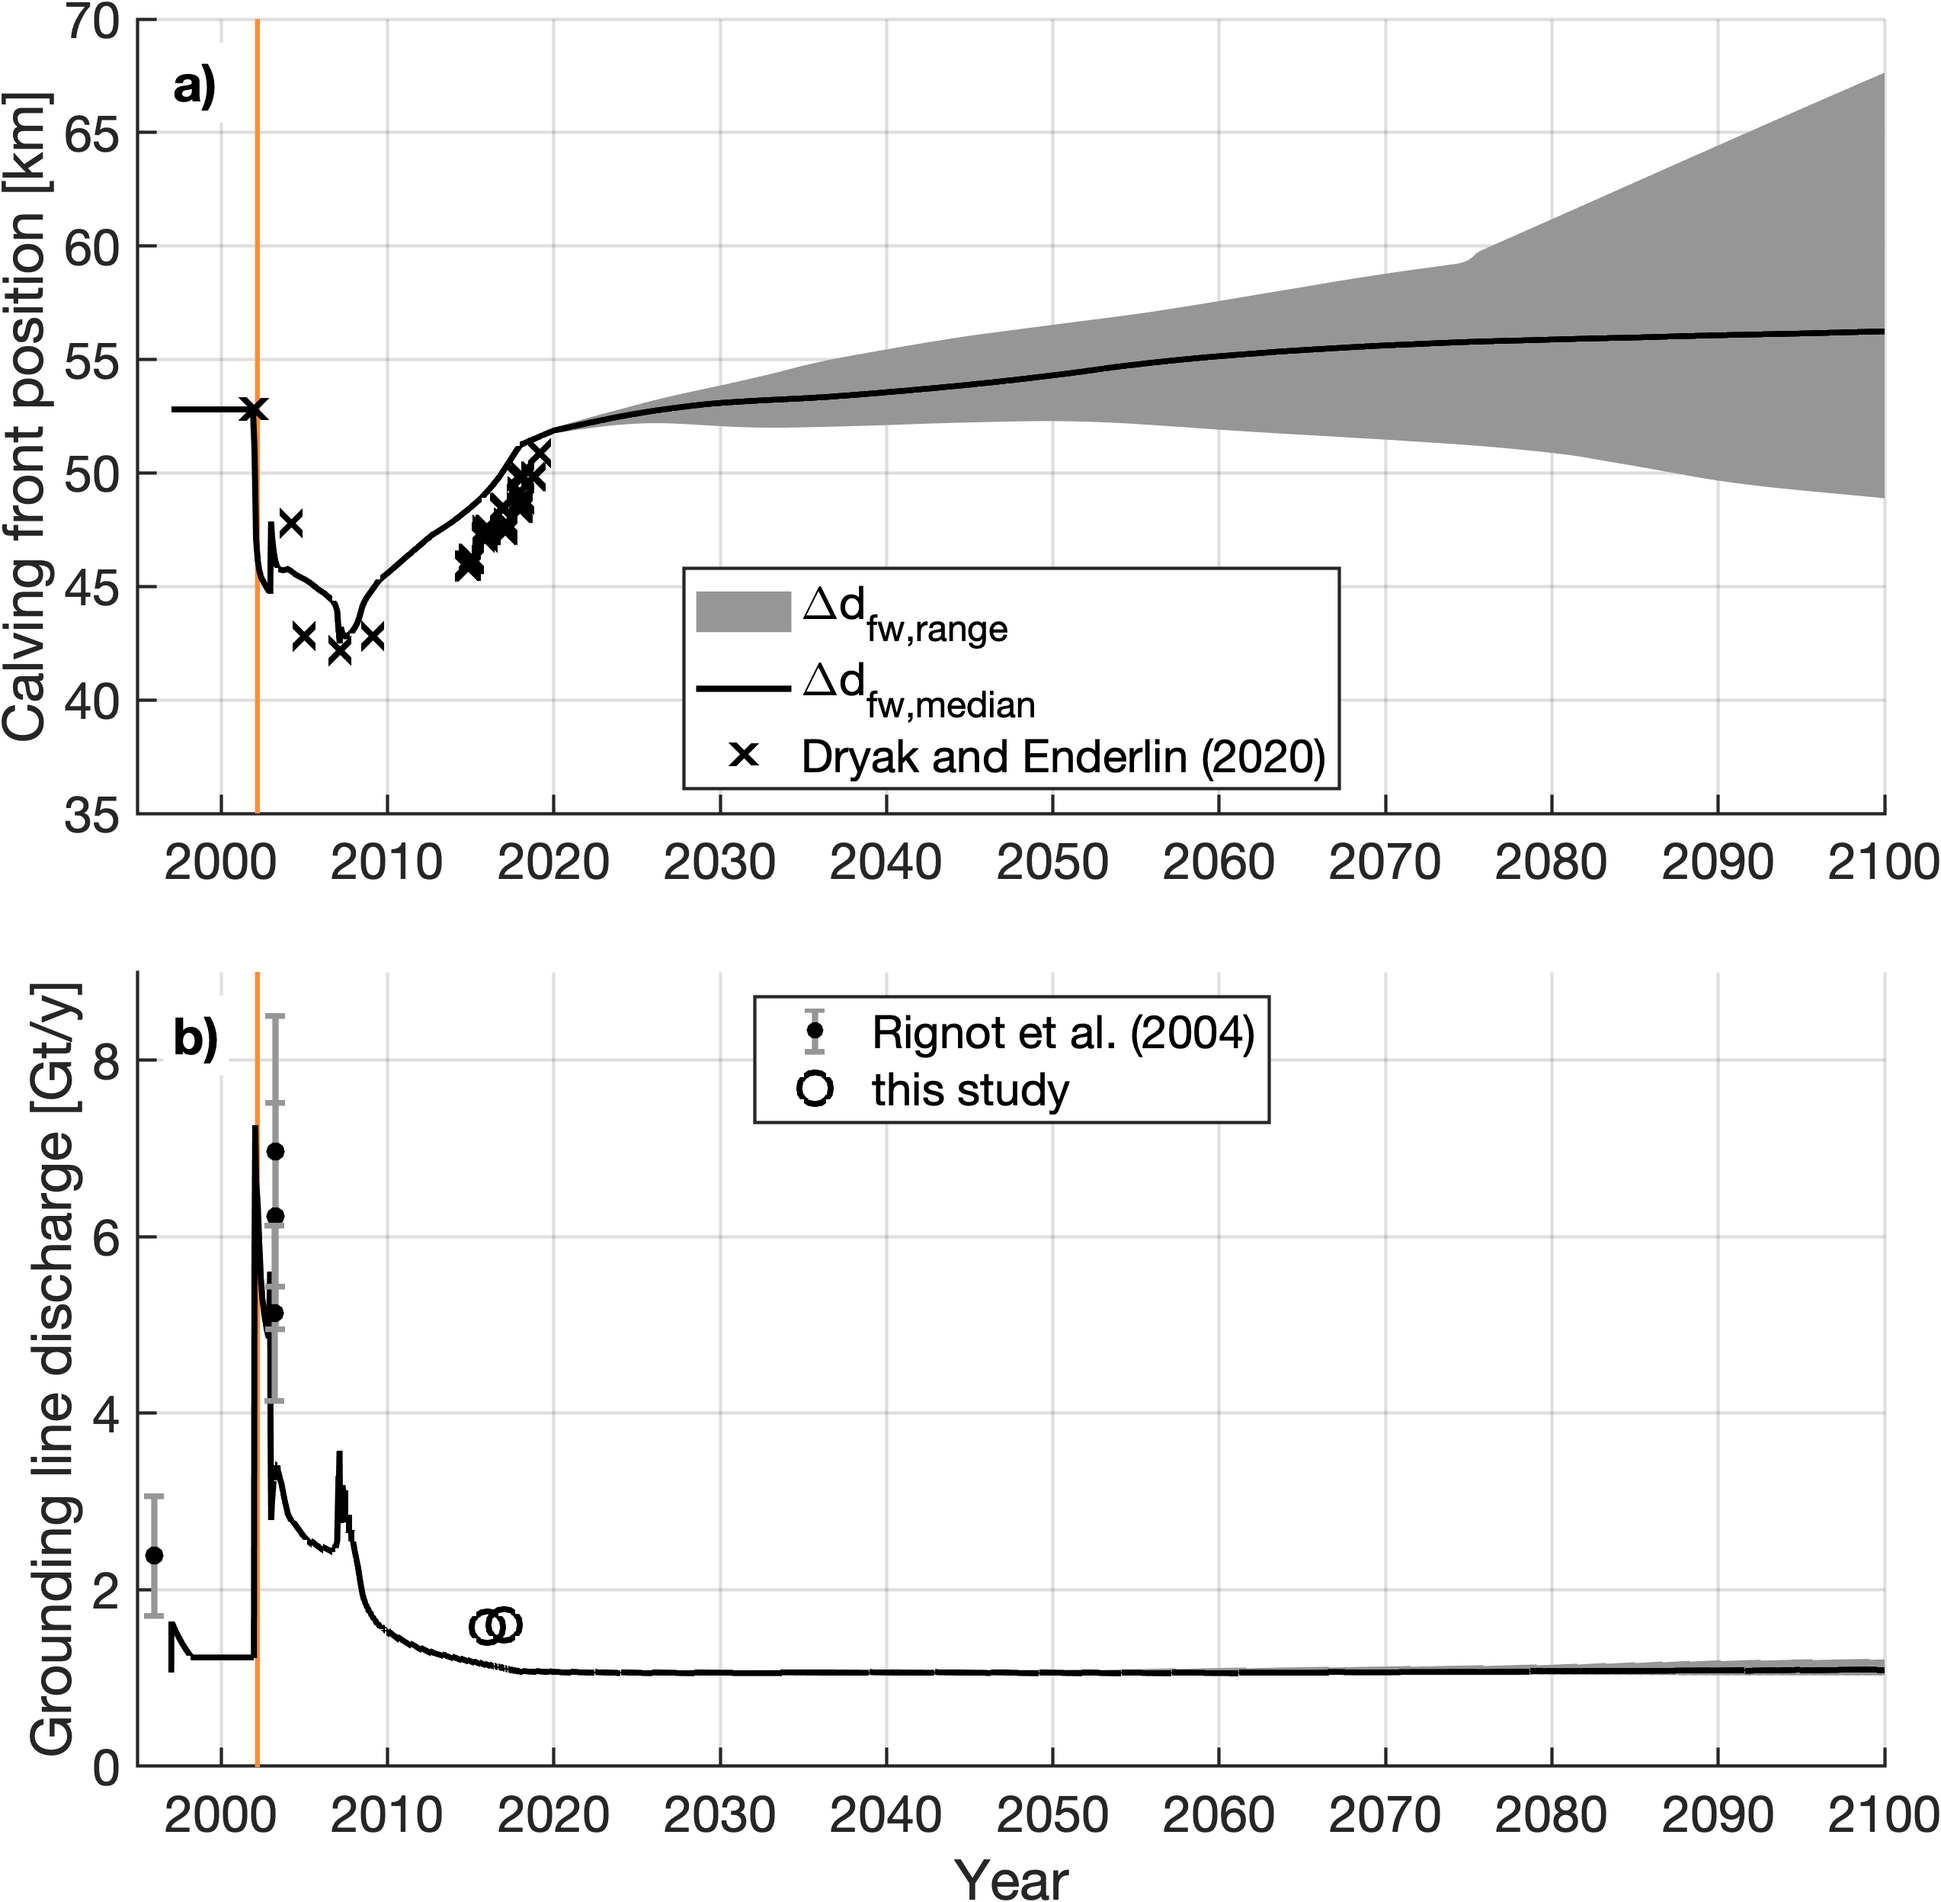
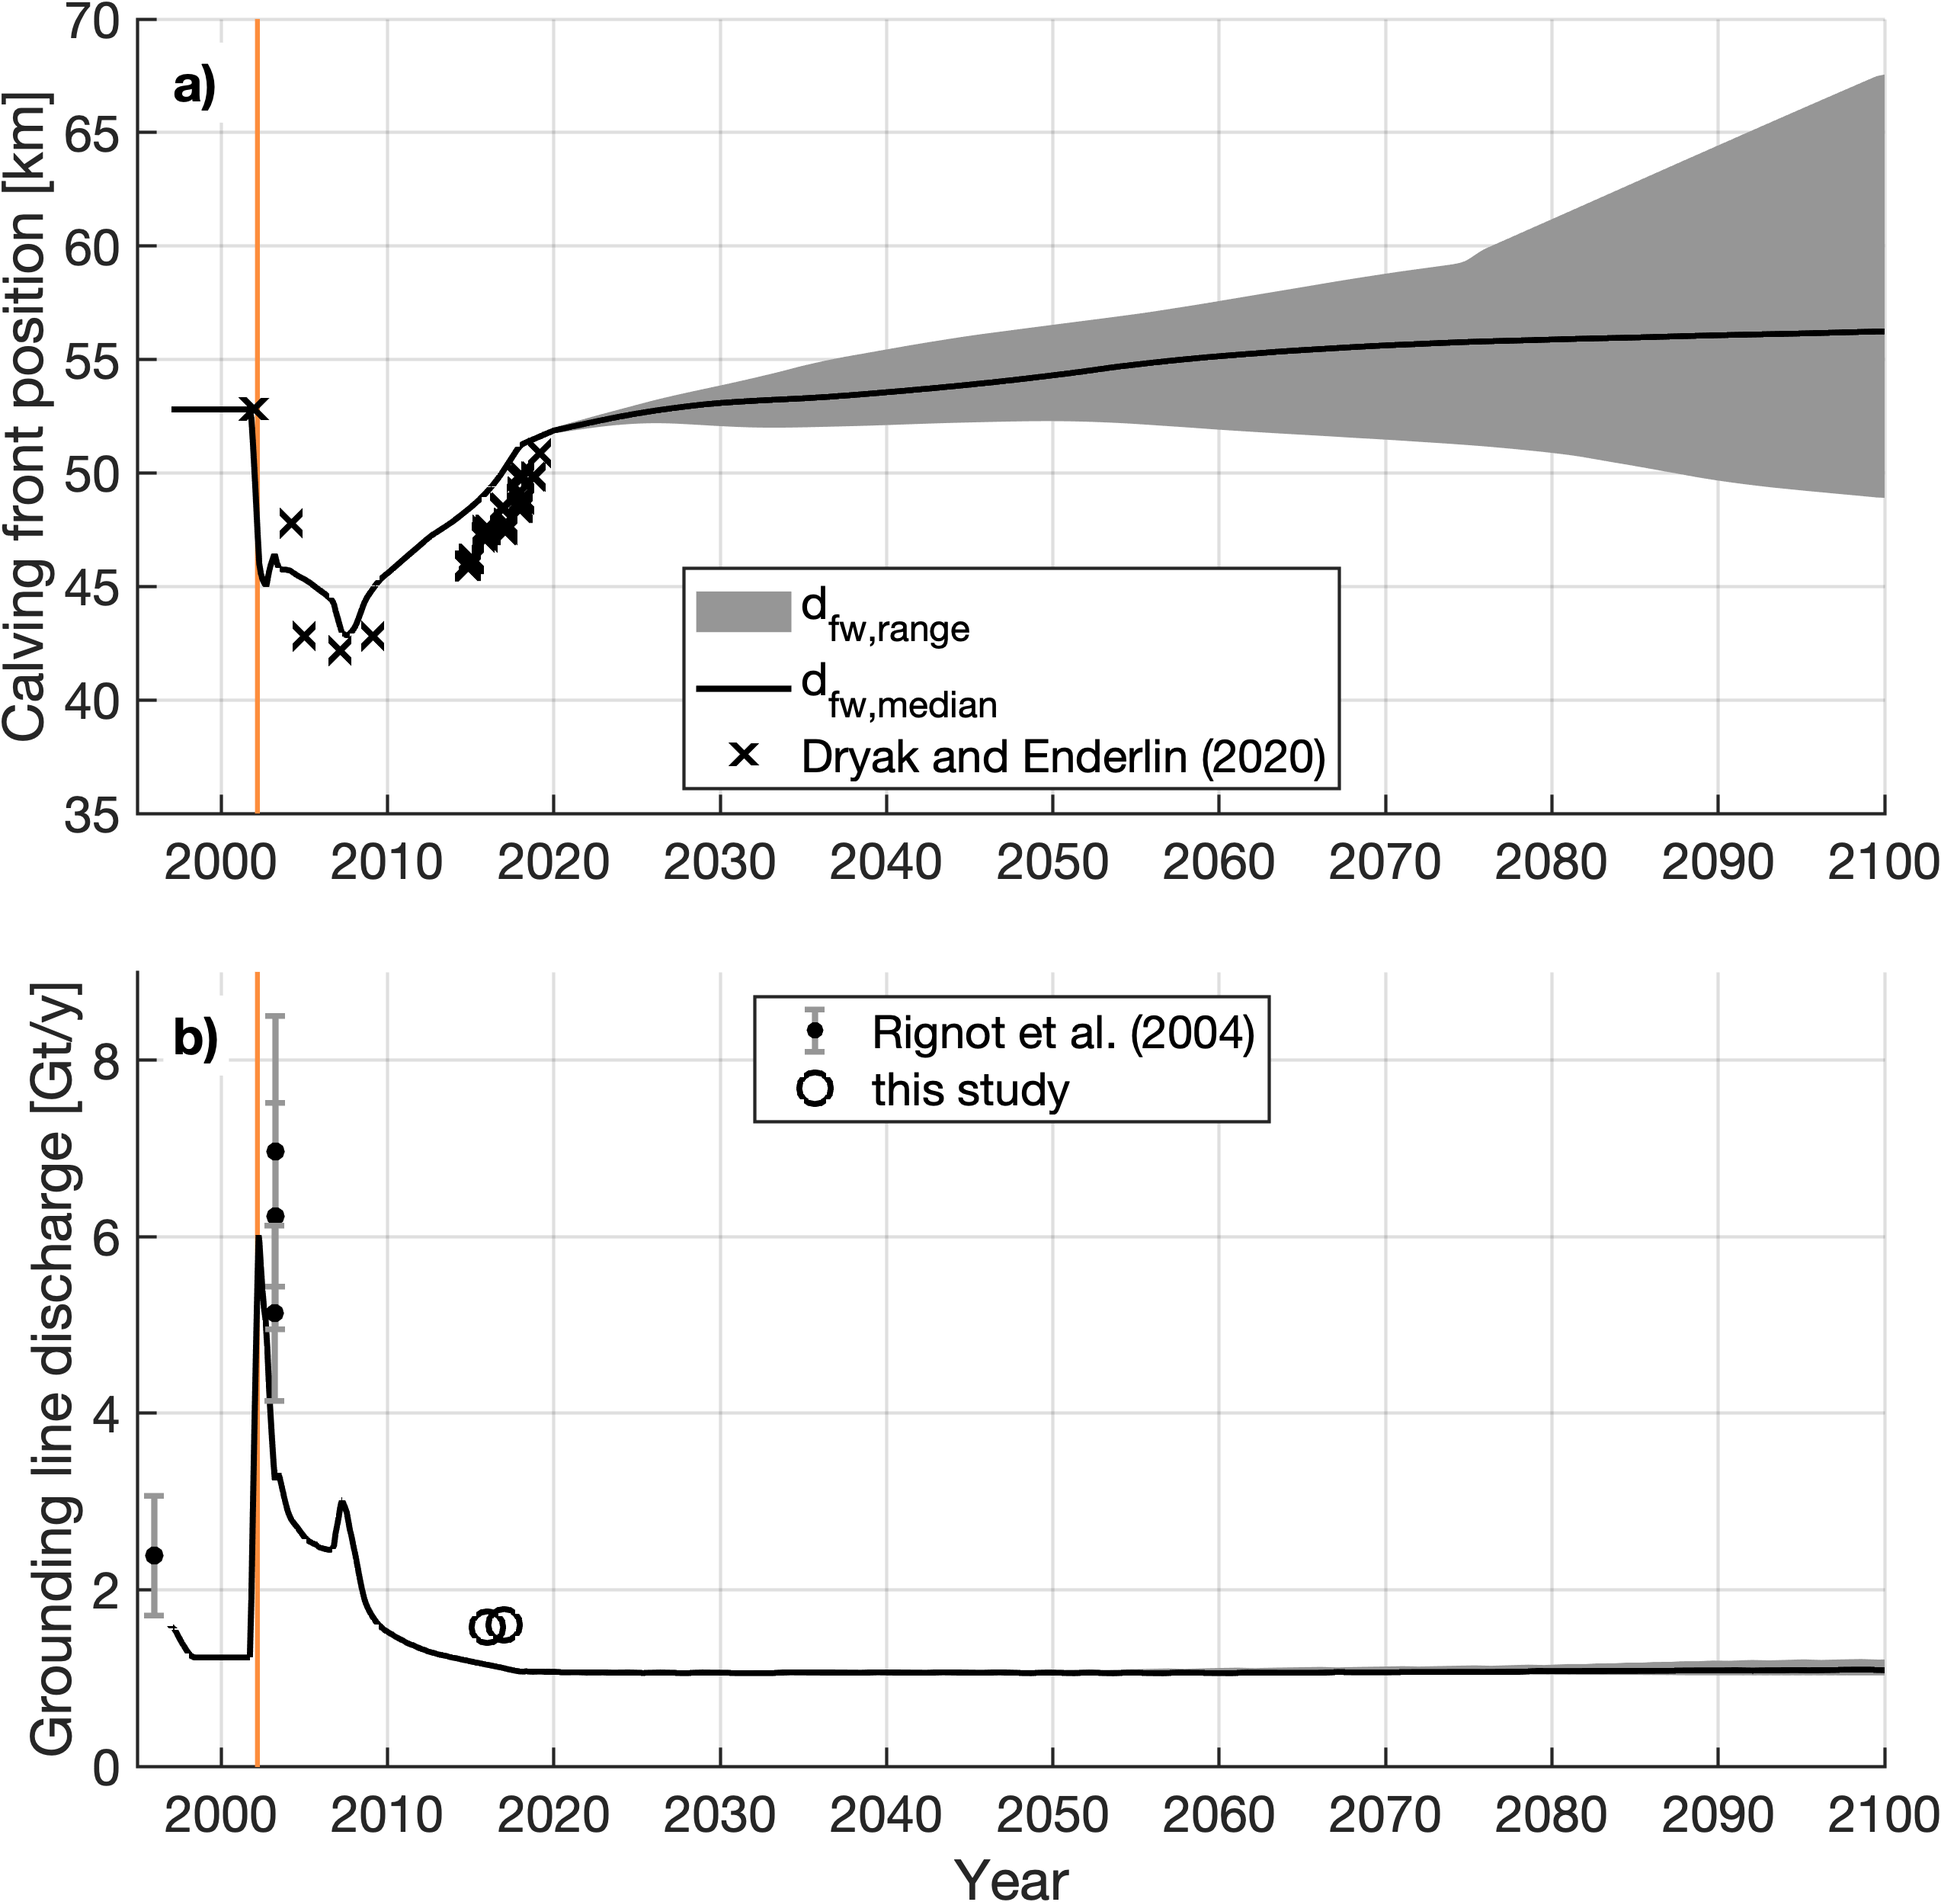
sensitivity tests figures: smoothed over one-year bins

diff --git a/figures/manuscript_figures.m b/figures/manuscript_figures.m
@@ -1525,19 +1525,19 @@ for i=1:length(IDFW)
     dgl(i) = x2(gl2)-x1(gl1); % m
     Ugl(i) = U2(gl2)*3.1536e7; % m/a
 end
-% plot Fgl and Xcf over time
+% plot Fgl and Xcf over time averaged over 1 yr bins
 figure(10);
 fill(ax10A, [t/3.1536e7+2002 fliplr(t)/3.1536e7+2002],...
-    [XCF2_DFWmin/10^3 fliplr(XCF2_DFWmax)/10^3],...
-    [150,150,150]./255,'LineStyle','none','displayname','\Deltad_{fw,range}');
+    [movmean(XCF2_DFWmin/10^3,1000) fliplr(movmean(XCF2_DFWmax,1000))/10^3],...
+    [150,150,150]./255,'LineStyle','none','displayname','d_{fw,range}');
 plot(ax10A,[(0:dt1:5*3.1536e7-dt1)/3.1536e7+1997 t/3.1536e7+2002],...
-    [x0(c0)*ones(1,length(Fgl_preCollapse))/10^3 XCF2_DFWmid/10^3],...
-    '-k','linewidth',linewidth,'displayname','\Deltad_{fw,median}');        
+    movmean([x0(c0)*ones(1,length(Fgl_preCollapse))/10^3 XCF2_DFWmid/10^3],1000),...
+    '-k','linewidth',linewidth,'displayname','d_{fw,median}');        
 fill(ax10B, [t/3.1536e7+2002 fliplr(t)/3.1536e7+2002],...
-    [Fgl2_DFWmin fliplr(Fgl2_DFWmax)],...
+    [movmean(Fgl2_DFWmin,1000) fliplr(movmean(Fgl2_DFWmax,1000))],...
     [150,150,150]./255,'LineStyle','none','HandleVisibility','off');
 plot(ax10B,[(0:dt1:5*3.1536e7-dt1)/3.1536e7+1997 t/3.1536e7+2002],...
-    [Fgl_preCollapse Fgl2_DFWmid],'-k','linewidth',linewidth,'handlevisibility','off'); 
+    movmean([Fgl_preCollapse Fgl2_DFWmid],1000),'-k','linewidth',linewidth,'handlevisibility','off'); 
 % create table to store result quantities
 varNames = {'dfwd','dL','dxgl','dHgl','dUgl','Qfwd'};
 T_DFW = table(dDFW,dL/10^3,dgl/10^3,dHgl,dUgl,Fdfw,'VariableNames',varNames);
@@ -1808,23 +1808,37 @@ BP.years = [BP.years; 2020*ones(length(XCF(:,(t/3.1536e7+2002)==2020)),1); 2040*
 varNames = {'dSMB_enh','dTF','dL','dgl','dHgl','dUgl','Qgl'};
 T_smb_enh_TF = table(dsmb_enh,dTF,dL/10^3,dgl/10^3,dHgl,dUgl,F,'VariableNames',varNames);
 
-% -----plot Fgl and Xcf     
+% -----plot Fgl and Xcf over time averaged over 1 yr bins     
 % mid
 % SMB
 figure(12);
-plot(ax12A,t/3.1536e7+2002,XCF2_SMBmid/10^3,'color',col2(1,:),'linewidth',linewidth,'displayname','\DeltaSMB');  
-plot(ax12C,t/3.1536e7+2002,Fgl2_SMBmid,'color',col2(1,:),'linewidth',linewidth,'HandleVisibility','off');        
+plot(ax12A,t/3.1536e7+2002,movmean(XCF2_SMBmid/10^3,1000),'color',col2(1,:),'linewidth',linewidth,'displayname','\DeltaSMB');  
+plot(ax12C,t/3.1536e7+2002,movmean(Fgl2_SMBmid,1000),'color',col2(1,:),'linewidth',linewidth,'HandleVisibility','off');        
 % TF
-plot(ax12A,t/3.1536e7+2002,XCF2_TFmid/10^3,'color',col2(2,:),'linewidth',linewidth,'displayName','\DeltaF_{T}');        
-plot(ax12C,t/3.1536e7+2002,Fgl2_TFmid,'color',col2(2,:),'linewidth',linewidth,'HandleVisibility','off');        
+plot(ax12A,t/3.1536e7+2002,movmean(XCF2_TFmid/10^3,1000),'color',col2(2,:),'linewidth',linewidth,'displayName','\DeltaF_{T}');        
+plot(ax12C,t/3.1536e7+2002,movmean(Fgl2_TFmid,1000),'color',col2(2,:),'linewidth',linewidth,'HandleVisibility','off');        
+
+% observations
+% terminus - Dryak and Enderlin
+plot(ax10A,termdate,termx/10^3,'xk','markersize',markersize-1,'linewidth',linewidth,'displayName','Dryak and Enderlin (2020)');        
+plot(ax12A,termdate,termx/10^3,'xk','markersize',markersize-1,'linewidth',linewidth,'displayName','Dryak and Enderlin (2020)');        
+% discharge - Rignot (2004)
+errorbar(ax10B,F_obs(1:4,1),F_obs(1:4,2),F_obs_err(1:4),'.','color',[150,150,150]./255,...
+    'markersize',markersize*2,'markerfacecolor','k','markeredgecolor','k','linewidth',linewidth,'displayName','Rignot et al. (2004)');        
+errorbar(ax12C,F_obs(1:4,1),F_obs(1:4,2),F_obs_err(1:4),'.','color',[150,150,150]./255,...
+    'markersize',markersize*2,'markerfacecolor','k','markeredgecolor','k','linewidth',linewidth,'displayName','Rignot et al. (2004)');   
+% discharge - Us! 
+plot(ax10B,F_obs(5:6,1),F_obs(5:6,2),'ok','markersize',markersize,'linewidth',linewidth,'displayName','this study');        
+plot(ax12C,F_obs(5:6,1),F_obs(5:6,2),'ok','markersize',markersize,'linewidth',linewidth,'displayName','this study');   
+
 % SMB_enh
-plot(ax12A,t/3.1536e7+2002,XCF2_SMBenh_mid/10^3,'color',col2(3,:),'linewidth',linewidth,'displayname','\DeltaSMB_{enh}');        
-plot(ax12C,t/3.1536e7+2002,Fgl2_SMBenh_mid,'color',col2(3,:),'linewidth',linewidth,'HandleVisibility','off');        
+plot(ax12A,t/3.1536e7+2002,movmean(XCF2_SMBenh_mid/10^3,1000),'color',col2(3,:),'linewidth',linewidth,'displayname','\DeltaSMB_{enh}');        
+plot(ax12C,t/3.1536e7+2002,movmean(Fgl2_SMBenh_mid,1000),'color',col2(3,:),'linewidth',linewidth,'HandleVisibility','off');        
 % SMB_enh & TF
 plot(ax12A,[(0:dt1:5*3.1536e7-dt1)/3.1536e7+1997 t/3.1536e7+2002],...
-    [x0(c0)*ones(1,length(Fgl_preCollapse))/10^3 XCF2_SMBenhTF_mid/10^3],'color',col2(4,:),'linewidth',linewidth,'DisplayName','\DeltaSMB_{enh} & \DeltaF_{T}');        
+    [x0(c0)*ones(1,length(Fgl_preCollapse))/10^3 movmean(XCF2_SMBenhTF_mid/10^3,1000)],'color',col2(4,:),'linewidth',linewidth,'DisplayName','\DeltaSMB_{enh} & \DeltaF_{T}');        
 plot(ax12C,[(0:dt1:5*3.1536e7-dt1)/3.1536e7+1997 t/3.1536e7+2002],...
-    [Fgl_preCollapse Fgl2_SMBenhTF_mid],'color',col2(4,:),'linewidth',linewidth,'HandleVisibility','off');        
+    [Fgl_preCollapse movmean(Fgl2_SMBenhTF_mid,1000)],'color',col2(4,:),'linewidth',linewidth,'HandleVisibility','off');        
 % boxplots
 % Note: must add two dummy groups to increase spacing between boxes
 box_width = 0.7; 
@@ -1860,18 +1874,6 @@ text(ax12D,categorical(2020),...
     (max(get(ax12D,'YLim'))-min(get(ax12D,'YLim')))*0.92+min(get(ax12D,'YLim')),...
     'd)','backgroundcolor','w','fontsize',fontsize,'linewidth',linewidth-1,'fontweight','bold');
 ax12D.XLabel.String = 'Year';
-% observations
-% terminus - Dryak and Enderlin
-plot(ax10A,termdate,termx/10^3,'xk','markersize',markersize-1,'linewidth',linewidth,'displayName','Dryak and Enderlin (2020)');        
-plot(ax12A,termdate,termx/10^3,'xk','markersize',markersize-1,'linewidth',linewidth,'displayName','Dryak and Enderlin (2020)');        
-% discharge - Rignot (2004)
-errorbar(ax10B,F_obs(1:4,1),F_obs(1:4,2),F_obs_err(1:4),'.','color',[150,150,150]./255,...
-    'markersize',markersize*2,'markerfacecolor','k','markeredgecolor','k','linewidth',linewidth,'displayName','Rignot et al. (2004)');        
-errorbar(ax12C,F_obs(1:4,1),F_obs(1:4,2),F_obs_err(1:4),'.','color',[150,150,150]./255,...
-    'markersize',markersize*2,'markerfacecolor','k','markeredgecolor','k','linewidth',linewidth,'displayName','Rignot et al. (2004)');   
-% discharge - Us! 
-plot(ax10B,F_obs(5:6,1),F_obs(5:6,2),'ok','markersize',markersize,'linewidth',linewidth,'displayName','this study');        
-plot(ax12C,F_obs(5:6,1),F_obs(5:6,2),'ok','markersize',markersize,'linewidth',linewidth,'displayName','this study');   
 
 % Add observed 2018 conditions to figures 5 and 7
 b=1; % create a loop to make section collapsible

diff --git a/workflows/steady-state-initial/a_centerline_observations.m b/workflows/steady-state-initial/a_centerline_observations.m
@@ -90,7 +90,7 @@ Afn = dir([datapath,'surface_elevations/ASTER/AST14DEM*_aps.tif']);
 % loop through files
 for i=1:length(Afn)
     A(i).fn = Afn(i).name;
-    [A(i).h, A(i).R] = readgeoraster([basepath,'data/surface_elevations/ASTER/',A(i).fn]);
+    [A(i).h, A(i).R] = readgeoraster([datapath,'/surface_elevations/ASTER/',A(i).fn]);
     A(i).h = double(A(i).h);
     A(i).h(A(i).h==-9999) = NaN; % set no data values to NaN
     [A(i).ny, A(i).nx] = size(A(i).h); % number of x and y points
@@ -120,7 +120,7 @@ for i=1:length(OIB_files)
     
     % load file
     OIB(i).fn = OIB_files(i).name; % file name
-    file = readmatrix([basepath,'data/surface_elevations/OIB_L2/',OIB(i).fn]); % full csv file
+    file = readmatrix([datapath,'surface_elevations/OIB_L2/',OIB(i).fn]); % full csv file
     file(file==-9999) = NaN; % replace no data values with NaN
     % extract coordinates
     OIB(i).lat = file(:,1);
